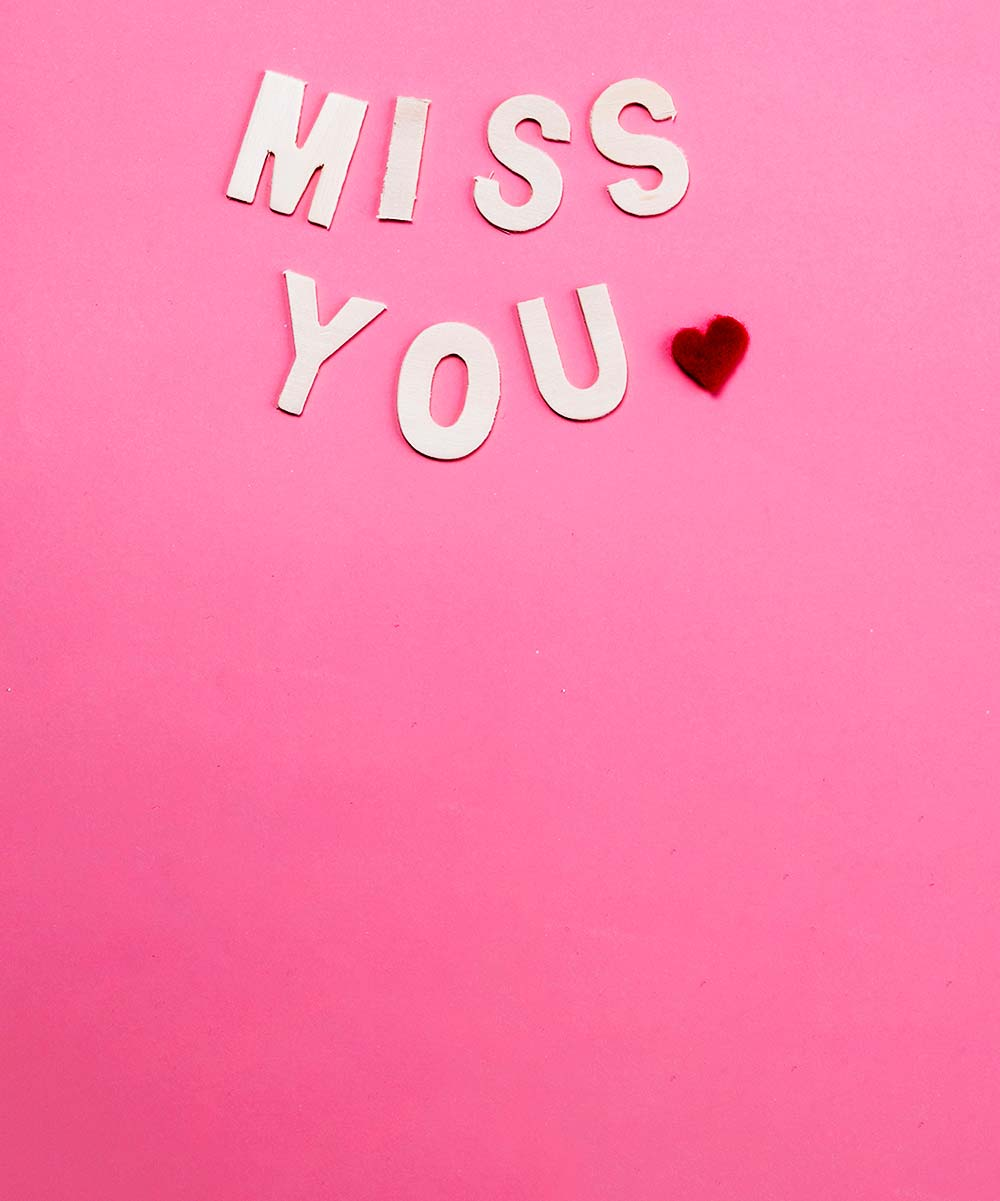
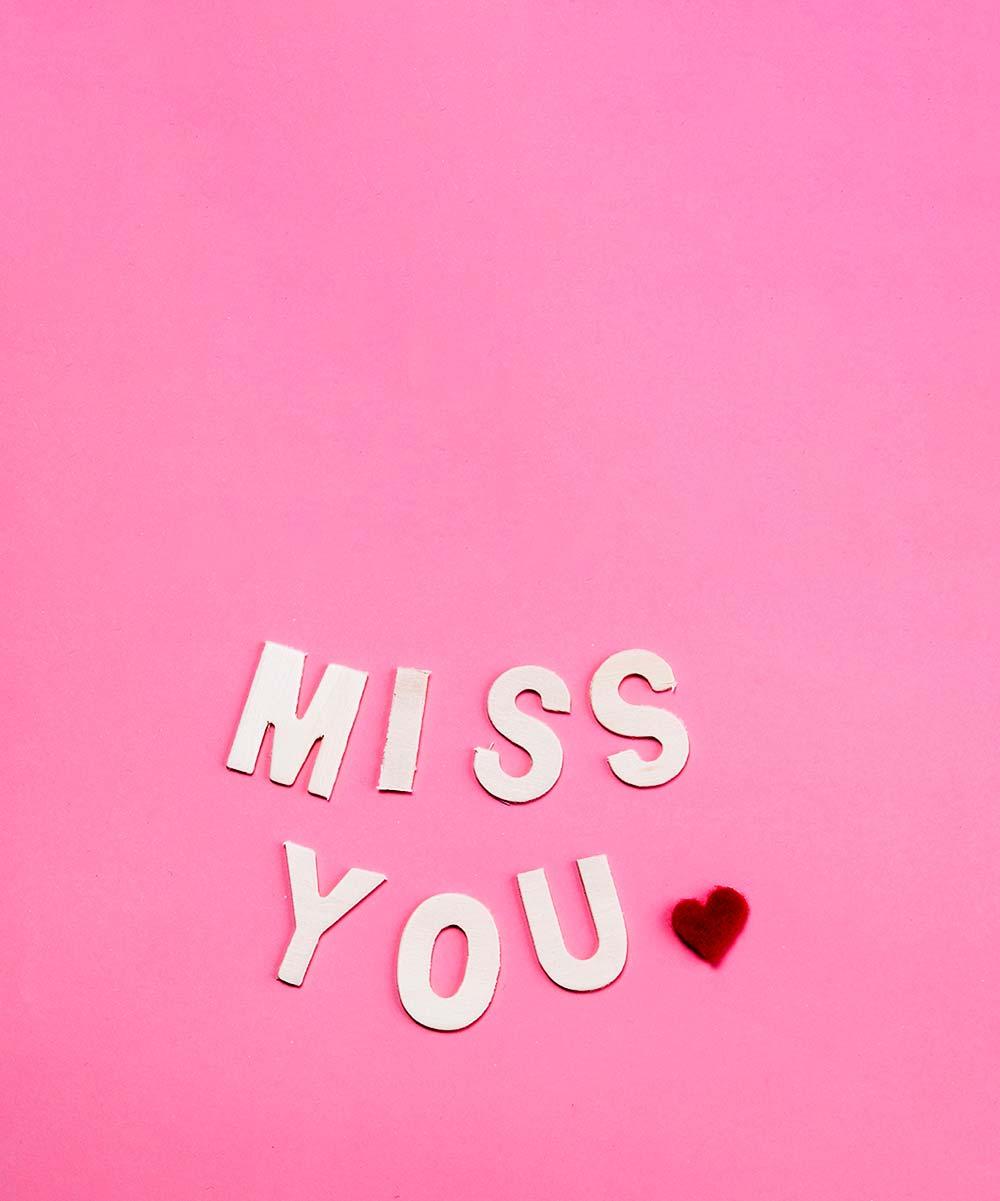
updated mobile styles

diff --git a/assets/styles.css b/assets/styles.css
@@ -13,11 +13,12 @@ html {
 
 .hero {
     padding: 2rem 1rem;
-    background: linear-gradient(0deg, rgba(232,114,161,1) 0%, rgba(232,114,161,1) 65%, rgba(232,114,161,0) 80%), url(./missyou-mobile.jpg);
-    background-position: 50% 0%;
+    padding-bottom: 20rem;
+    background: linear-gradient(180deg, rgba(232,114,161,1) 0%, rgba(232,114,161,1) 50%, rgba(232,114,161,0) 70%), url(./missyou-mobile.jpg);
+    background-position: 50% 100%;
     background-size: 100vw auto;
     background-repeat: no-repeat;
-    min-height: 90vh;
+    min-height: 100vh;
 }
 
 .hero p, .callout p {
@@ -30,7 +31,7 @@ html {
     background-position: 50% 100%;
     background-size: 100vw auto;
     background-repeat: no-repeat;
-    min-height: 90vh;
+    min-height: 100vh;
 }
 
 
@@ -58,6 +59,7 @@ html {
     }
 
     .hero {
+        padding: 2rem 1rem;
         background: linear-gradient(90deg, rgba(232,114,161,1) 0%, rgba(232,114,161,1) 30%, rgba(232,114,161,0) 40%), url(./missyou-tablet.jpg);
         background-position: 100% 50%;
         background-size: contain;

diff --git a/index.html b/index.html
@@ -325,7 +325,7 @@
 
     <div id="page-content-wrapper">
         <!--body content-->
-        <section class="container-fluid hero text-white mb-3 d-flex align-items-end align-items-lg-center">
+        <section class="container-fluid hero text-white mb-3 d-flex align-items-lg-center">
             <div class="container">
                 <div class="row align-items-center">
                     <div class="col-12 col-md-6 col-lg-7">
